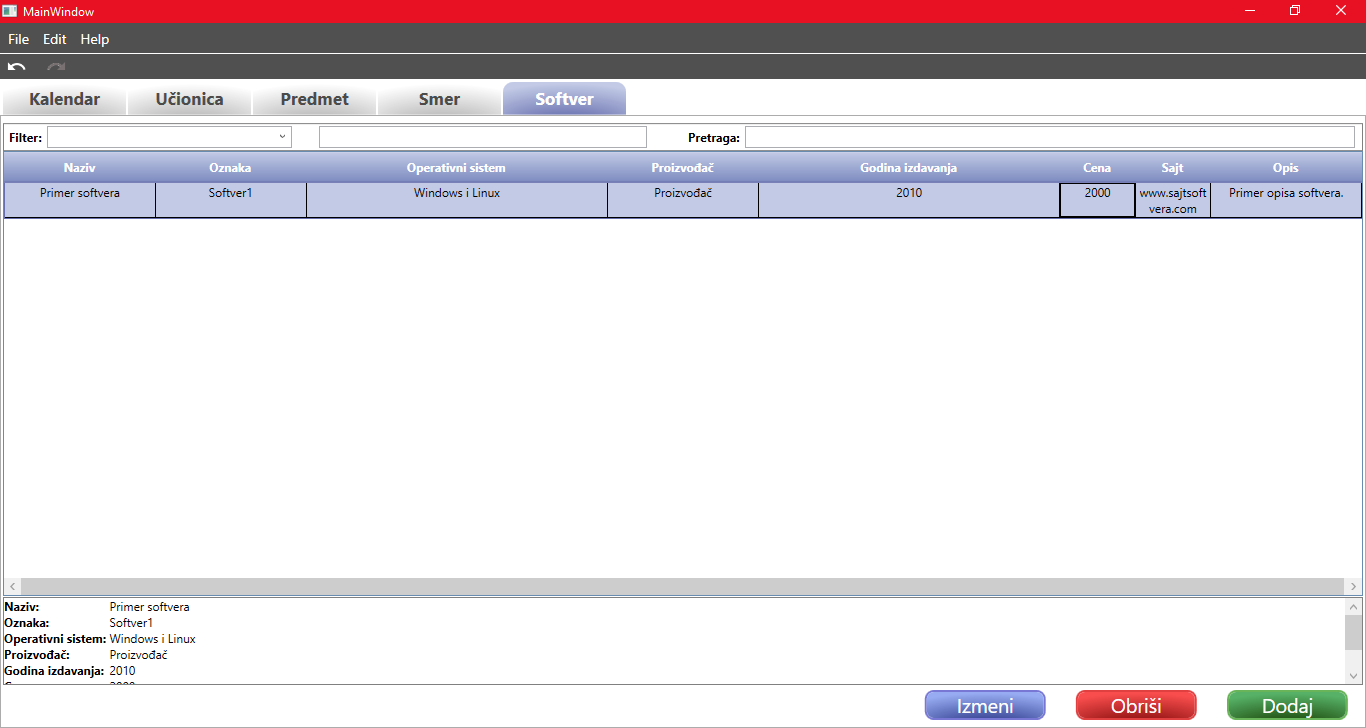
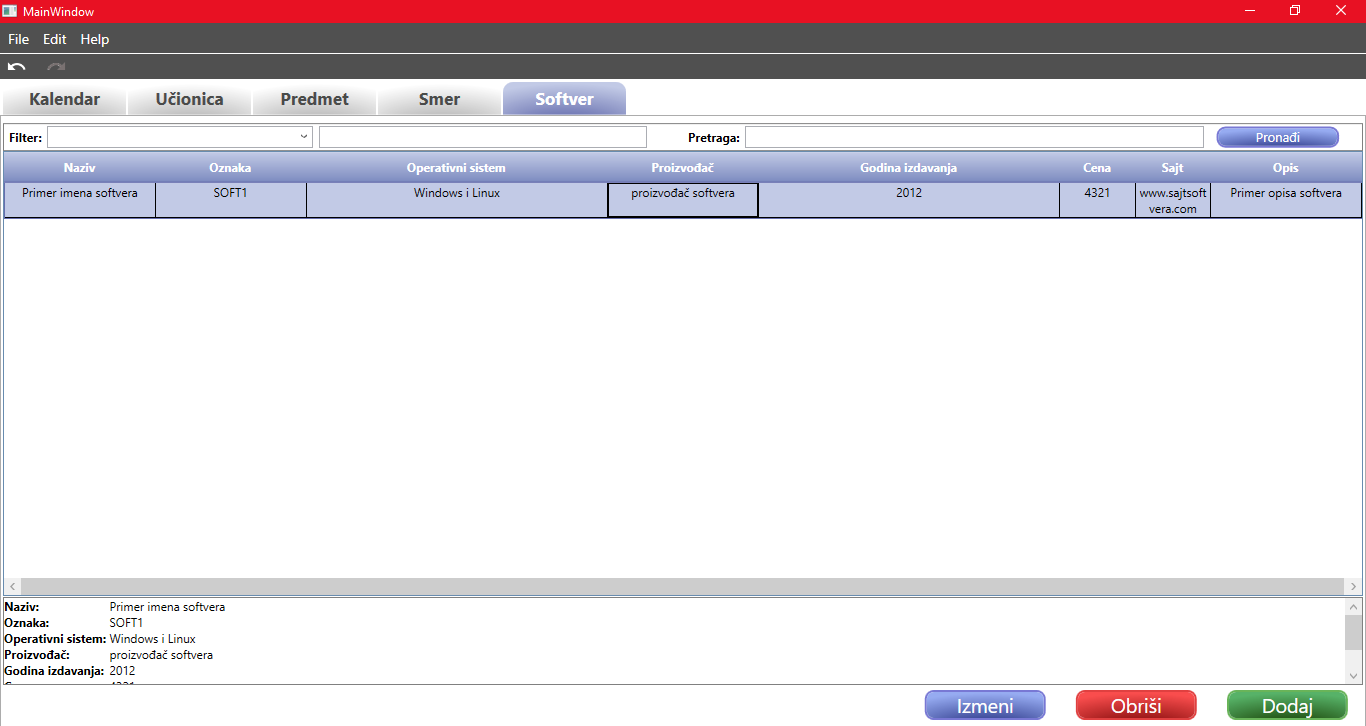
Ubačena pretraga i tutorijal u help.

diff --git a/HCI-Projekat/help/pregledSmera.html b/HCI-Projekat/help/pregledSmera.html
@@ -46,7 +46,16 @@
     </p>
     <p>
         <h4>Pretraga smerova</h4>
-
+        Ukoliko ne postoji nijedna pojava ključne reči ("?naziv", "?oznaka", "?opis", "?=", "?!=", "?&gt;", "?&lt;", "?&gt;=",
+         "?&lt;=")
+        u pretrazi, onda se pretraga izvršava tako što se uneta vrednost traži u svim obeležjima jednog smera.
+        U suprotnom, radi se pretraga zasnovana na korišćenju upita. Dozvoljeno je postojanje jednog upita u polju za pretragu.
+        Ukoliko ih ima više, korisnik će biti obavešten o ograničenom broju istih.
+        Upit ima oblik _KLJUČNA_REC _OPERATOR _VREDNOST gde ključna rec može biti iz skupa ("?oznaka", "?naziv", "?opis"),
+        operand iz skupa (?!=, ?=), dok vrednost može biti bilo šta.
+        Relacije koje se unose na mestu operatora imaju svoje standarno značenje i primenjuju se na obeležje smera koje
+        je predstavljeno ključnom rečju sa poćetka upita.
+        Ukoliko bilo koje od pravila bude narušeno, korisniku će se pojaviti adekvatno obaveštenje.<br />
         Prečica na tastaturi da bi se fokusirala pretraga je <b>Ctrl+Shift+P</b>.
     </p>
     <p>
@@ -54,7 +63,8 @@
         Filer funkcioniše tako što je potrebno najpre odabrati kriterijum po kome se vrši filtriranje. Kriterijum po kome je
         moguće izvršiti filtriranje na tabelom, su podaci predmeta po kolonama. Listu kriterijuma filtera je moguće automatski
         otvoriti pomoću <b>Alt+Up</b> ili <b>Alt+Down</b> prečica na tastaturi. Nakon što korisnik odabere kriterijum,
-        potrebno je da u tekstualnom polju za unos, koje se nalazi pored, unese tekst koji želi da pretražuje u tabeli.<br />
+        potrebno je da u tekstualnom polju za unos, koje se nalazi pored, unese tekst koji želi da pretražuje u tabeli, osim ako
+        je odabrao datum uvođenja. U tom slučaju se pojavljuju dva polja i potrebno je odabrati opseg datuma koji se pretražuje.<br />
         Prečica na tastaturi da bi se fokusirao filter je <b>Ctrl+Shift+F</b>.
     </p>
     <img src="pictures/filterSmera.png" alt="tab1" class="picture" />

diff --git a/HCI-Projekat/help/pregledSoftvera.html b/HCI-Projekat/help/pregledSoftvera.html
@@ -50,7 +50,19 @@
     </p>
     <p>
         <h4>Pretraga softvera</h4>
-
+        Ukoliko ne postoji nijedna pojava ključne reci ("?oznaka", "?naziv", "?opis", "?proizvodjac", "?sajt", "?godina_izdavanja",
+         "?cena", "?=", "?!=", "?&gt;", "?&lt;", "?&lt;=", "?&gt;=")
+        u pretrazi, onda se pretraga izvršava tako što se uneta vrednost traži u svim obeležjima jednog softvera.
+        U suprotnom, radi se pretraga zasnovana na korišćenju upita. Dozvoljeno je postojanje jednog upita u polju za pretragu.
+        Ukoliko ih ima više, korisnik će biti obavešten o ograničenom broju istih.
+        Upit ima oblik _KLJUČNA_REC _OPERATOR _VREDNOST gde ključna reč može biti iz skupa ("?oznaka", "?naziv", "?opis", "?proizvođac",
+         "?sajt", "?godina_izdavanja", "?cena"),
+        operand iz skupa (?!=, ?=, ?&gt;, ?&lt;, ?&lt;=, ?&gt;=), dok vrednost može biti bilo šta. Ukoliko se kao ključna reč na početku upita
+        odabere neka iz skupa ?godina_izdavanja, tada vrednost koja se unosi nakon operatora mora biti ceo broj, kako bi upit bio validan.
+        Takođe, ukoliko je uneta ključna reč ?cena, tada vrednost nakon operatora mora biti ceo ili realan broj, kako bi upit bio validan.
+        Relacije koje se unose na mestu operatora imaju svoje standarno značenje i primenjuju se na obeležje softvera koje
+        je predstavljeno ključnom rečju sa pocetka upita.
+        Ukoliko bilo koje od pravila bude narušeno, korisniku će se pojaviti adekvatno obaveštenje. <br/>
         Prečica na tastaturi da bi se fokusirala pretraga je <b>Ctrl+Shift+P</b>.
     </p>
     <p>

diff --git a/HCI-Projekat/help/pregledPredmeta.html b/HCI-Projekat/help/pregledPredmeta.html
@@ -54,7 +54,16 @@
     
     <p>
         <h4>Pretraga predmeta</h4>
-
+        Ukoliko ne postoji nijedna pojava ključne reci ("?oznaka", "?naziv", "?opis", "?velicina_grupe", "?min_duzina_termina", "?br_termina",
+        ?!=, ?=, ?&gt;, ?&lt;, ?&lt;=, ?&gt;=) u pretrazi, onda se pretraga izvršava tako što se uneta vrednost traži u svim obeležjima jednog predmeta.
+        U suprotnom, radi se pretraga zasnovana na korišćenju upita. Dozvoljeno je postojanje jednog upita u polju za pretragu.
+        Ukoliko ih ima više, korisnik će biti obavešten o ograničenom broju istih.
+        Upit ima oblik _KLJUČNA_REC _OPERATOR _VREDNOST gde ključna rec može biti iz skupa ("?oznaka", "?naziv", "?opis", "?velicina_grupe", "?min_duzina_termina", "?br_termina"),
+        operand iz skupa (?!=, ?=, ?&gt;, ?&lt;, ?&lt;=, ?&gt;=), dok vrednost može biti bilo šta. Ukoliko se kao ključna reč na početku upita
+        odabere neka iz skupa (?velicina_grupe, ?min_duzina_termina, ?br_termina), tada vrednost koja se unosi nakon operatora mora biti ceo broj, kako bi upit bio validan.
+        Relacije koje se unose na mestu operatora imaju svoje standarno značenje i primenjuju se na obeležje predmeta koje
+        je predstavljeno ključnom rečju sa početka upita.
+        Ukoliko bilo koje od pravila bude narušeno, korisniku će se pojaviti adekvatno obaveštenje. <br/>
         Prečica na tastaturi da bi se fokusirala pretraga je <b>Ctrl+Shift+P</b>.
     </p>
     <p>

diff --git a/HCI-Projekat/help/pregledUcionice.html b/HCI-Projekat/help/pregledUcionice.html
@@ -46,7 +46,17 @@
     </p>
     <p>
         <h4>Pretraga učionica</h4>
-
+        Ukoliko ne postoji nijedna pojava ključne reči (?oznaka, ?opis, ?br_mesta, ?!=, ?=, ?&gt;, ?&lt;, ?&lt;=, ?&gt;=)
+        u pretrazi, onda se pretraga izvršava tako što se uneta vrednost traži u svim obeležjima jedne učionice.
+        U suprotnom, radi se pretraga zasnovana na korišćenju upita. Dozvoljeno je postojanje jednog upita u polju za pretragu.
+        Ukoliko ih ima više, korisnik će biti obavešten o ograničenom broju istih.
+        Upit ima oblik _KLJUČNA_REC _OPERATOR _VREDNOST gde ključna reč može biti iz skupa (?oznaka, ?opis, ?br_mesta),
+        operand iz skupa (?!=, ?=, ?&gt;, ?&lt;, ?&lt;=, ?&gt;=), dok vrednost može biti bilo šta. Ukoliko se kao ključna reč 
+        na početku upita
+        odabere ?br_mesta, tada vrednost koja se unosi nakon operatora mora biti ceo broj, kako bi upit bio validan.
+        Relacije koje se unose na mestu operatora imaju svoje standarno značenje i primenjuju se na obeležje učionice koje
+        je predstavljeno ključnom rečju sa početka upita.
+        Ukoliko bilo koje od pravila bude narušeno, korisniku će se pojaviti adekvatno obaveštenje. <br/>
         Prečica na tastaturi da bi se fokusirala pretraga je <b>Ctrl+Shift+P</b>.
     </p>
     <p>

diff --git a/HCI-Projekat/help/mainWindow.html b/HCI-Projekat/help/mainWindow.html
@@ -58,6 +58,13 @@
             <li>Šetaj između tabova: <b>Ctrl+Tab</b></li>
         </ul>
     </p>
+    <p>
+        <h4>Tutorijal</h4>
+        Tutorijal koji postoji, namenjen je za objašnjavanje dodavanja novog softvera. Pokreće se tako što se klikne <b>Tutorijal</b>
+        u padajućem meniju, koji pripada <b>Help</b>-u. Kada se tutorijal pokrene, prikazaće se oblačić iznad dugmeta za 
+        dodavanje novog softvera. Prateći uputstva u tutorijalu, korisnik će na samom kraju dodati novi softver. Da bi se izašlo
+        iz tutorijala, potrebno je kliknuti <b>x</b> na početnom oblačiću ili zatvoriti prozor koji se otvorio za dodavanje.
+    </p>
     
 </body>
 

diff --git a/HCI-Projekat/MainWindow.xaml b/HCI-Projekat/MainWindow.xaml
@@ -519,7 +519,7 @@
                             <Image Source="picture/exitTutorial.png" HorizontalAlignment="Right" Stretch="UniformToFill" Width="17" Height="17"/>
                         </Button>
                         
-                        <TextBlock TextWrapping="Wrap" Text="Dobrodosli na tutorijal za dodavanje softvera. Pritisnite dugme za dodavanje." />
+                        <TextBlock TextWrapping="Wrap" Text="Dobrodošli na tutorijal za dodavanje softvera. Pritisnite dugme za dodavanje." />
                         
                     </StackPanel>
                 </Border>
